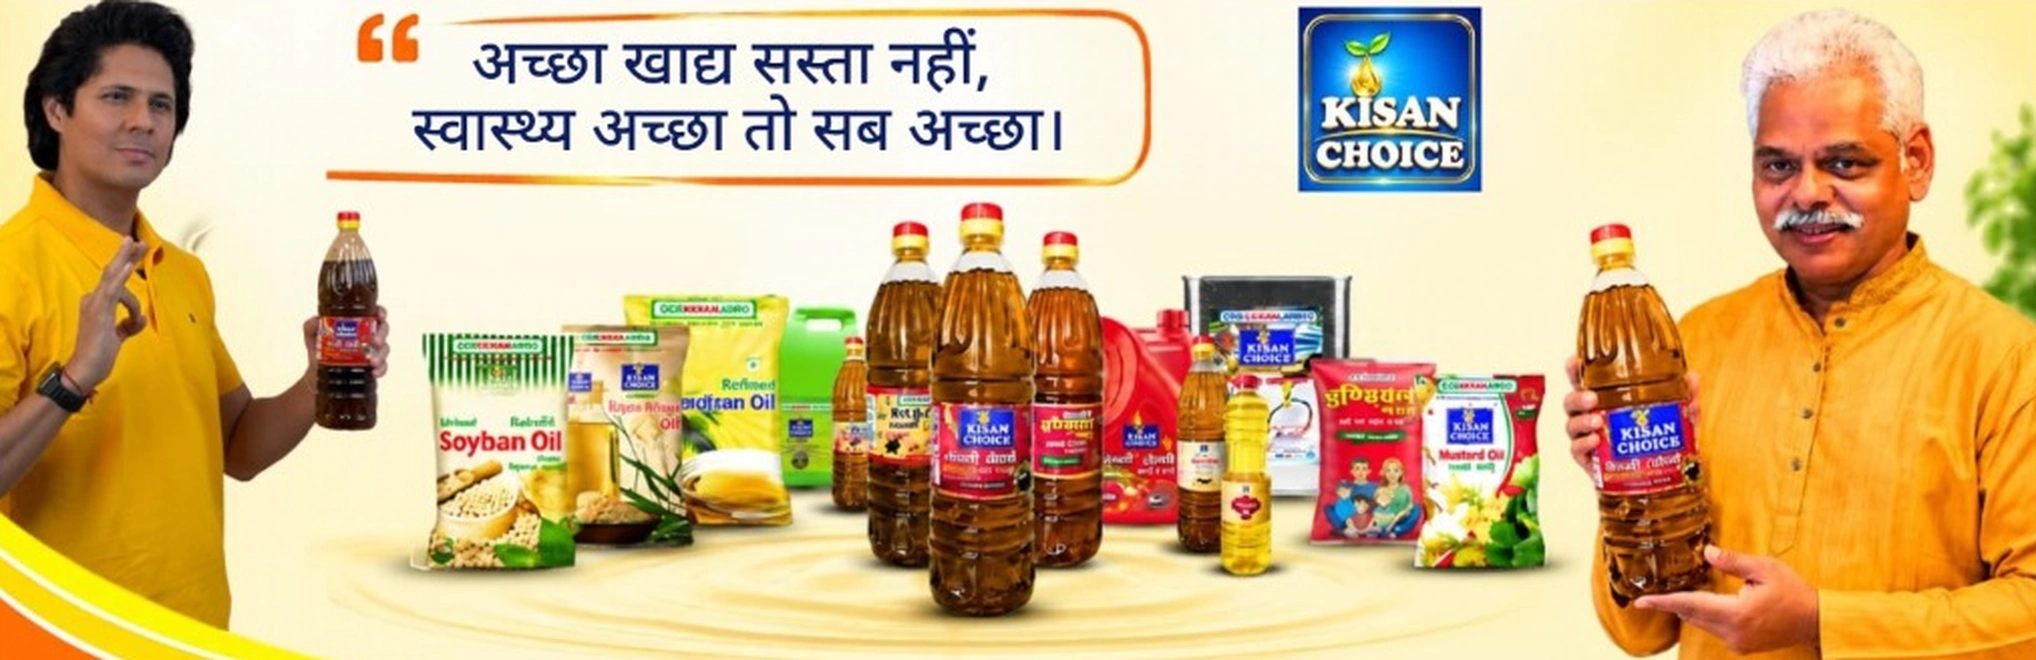
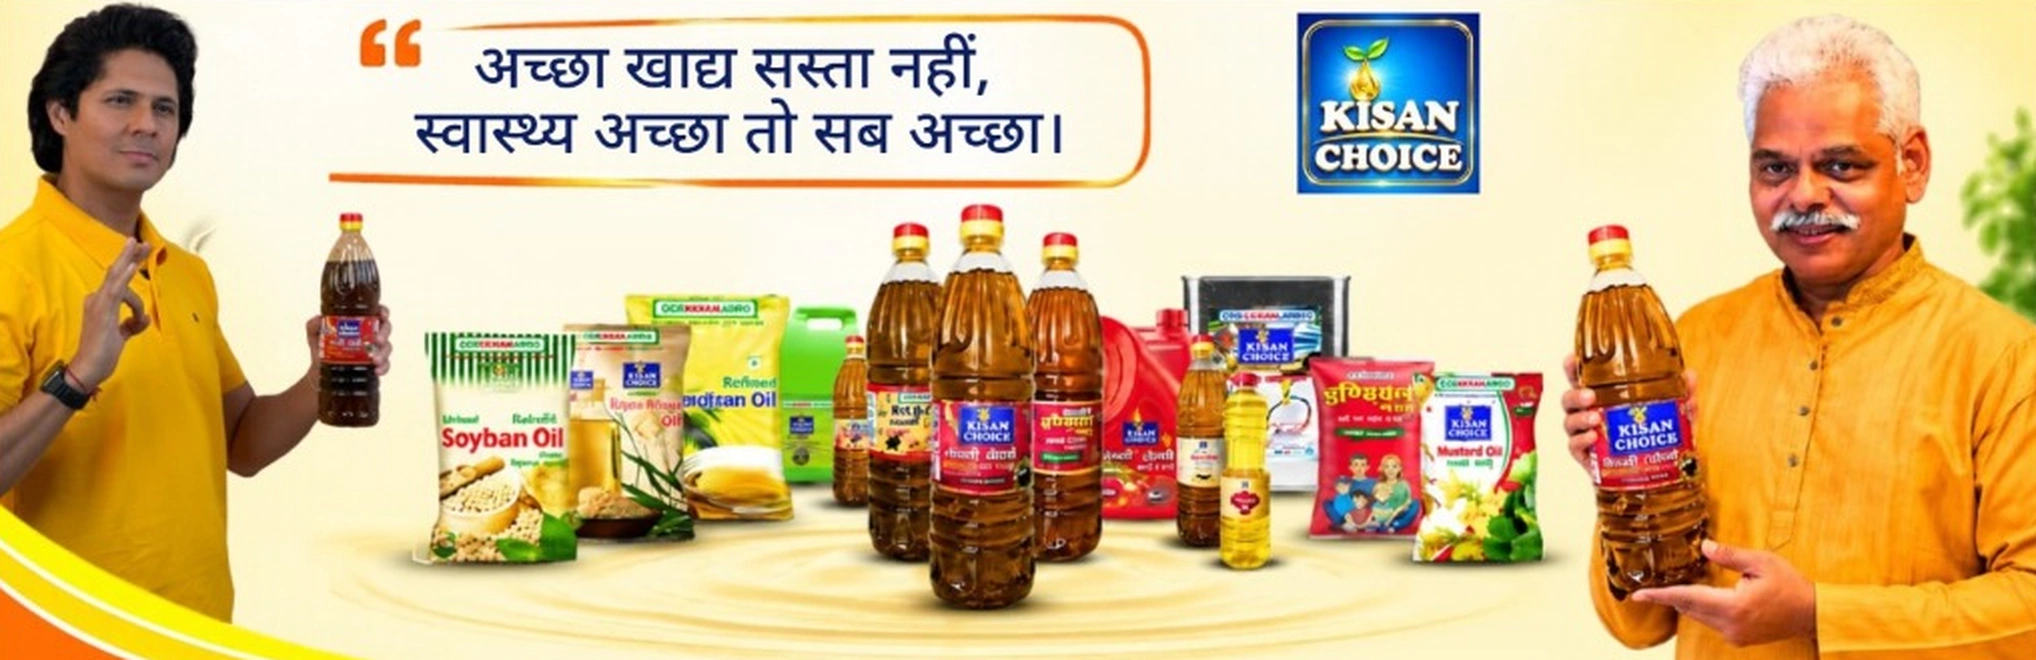
fix(hero): eliminate baked-in image edge borders completely with clean cropped assets and cache busting

diff --git a/src/Pages/Homepage.jsx b/src/Pages/Homepage.jsx
@@ -18,13 +18,13 @@ const StatsAndProcess = lazy(() => import("./StatsAndProcess"));
 
 // ✅ Images
 const desktopSlides = [
-  { id: 1, img: "/hero_desktop.webp" },
+  { id: 1, img: "/hero_desktop_clean.webp?v=3" },
   { id: 2, img: "/img2.webp" },
   { id: 3, img: "/img3.webp" },
 ];
 
 const mobileSlides = [
-  { id: 1, img: "/hero_mobile.webp" },
+  { id: 1, img: "/hero_mobile_clean.webp?v=3" },
   { id: 2, img: "/pimg3.webp" },
   { id: 3, img: "/pimg1.webp" },
 ];
@@ -120,7 +120,7 @@ export default function HeroCarousel() {
           name="keywords"
           content="kisan choice, kisanchoice, kisangroups, kisan groups, kisan choice oil, mustard oil, edible oil, pure oil"
         />
-        <link rel="preload" as="image" href="/hero_desktop.webp" />
+        <link rel="preload" as="image" href="/hero_desktop_clean.webp?v=3" />
       </Helmet>
 
       {/* 🔥 HERO */}
